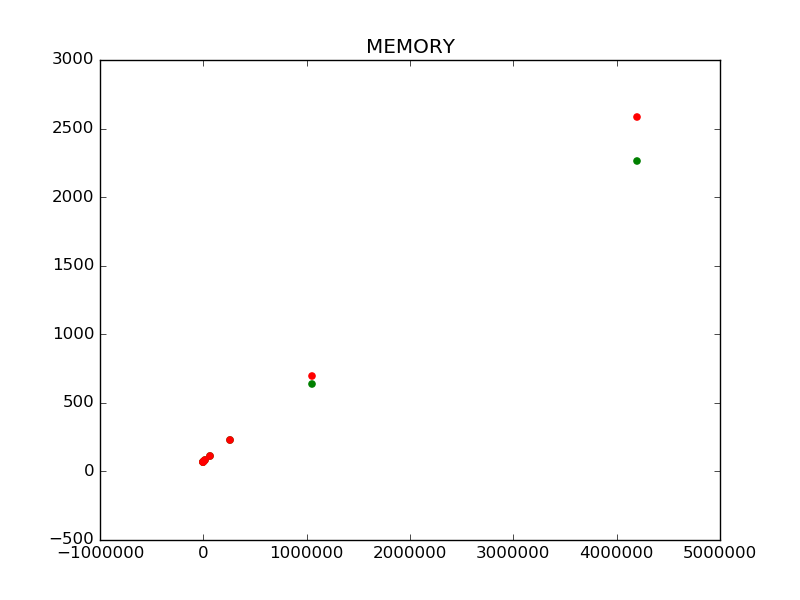
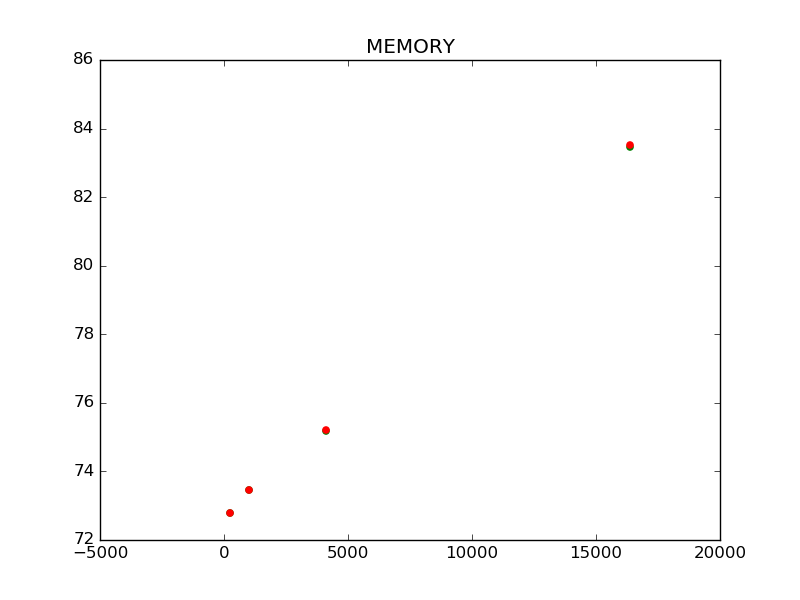
new plots test

diff --git a/kmeans/onlineKmeansComparison.py b/kmeans/onlineKmeansComparison.py
@@ -1,0 +1,99 @@
+import numpy as np
+import matplotlib.pyplot as plt
+from sklearn.datasets.samples_generator import make_blobs
+from sklearn.preprocessing import StandardScaler
+from sklearn.datasets import load_iris
+from memory_profiler import memory_usage
+import timeit
+from sklearn.metrics.pairwise import pairwise_distances
+from sklearn.cluster import MiniBatchKMeans
+
+def getPermutation(totalRange,numberElements):
+    random_seed = 10312003
+    rng = np.random.RandomState(random_seed)
+    permutation = rng.permutation(totalRange)
+    return permutation[:numberElements]
+
+def onlineKmeans(X,k=3,b=30,maxiter=1000):
+    centroids = X[getPermutation(len(X),k)]
+    pointsPerClusters = np.zeros([k,1])
+    minInertia=0
+    notImproveCount=0
+    for i in range(maxiter):
+        M=X[getPermutation(len(X),b)]
+        distances = pairwise_distances(M, centroids, metric='euclidean')
+        nearestCenters = np.argmin(distances, axis=1)
+        inertia = np.sum(np.amin(distances, axis=1))  
+        if (minInertia ==0 or inertia < minInertia):
+            minInertia = inertia
+            notImproveCount=0
+        elif minInertia !=0 and inertia >= minInertia:
+            notImproveCount+=1
+        if (notImproveCount>10): 
+            break
+        for iter, x in enumerate(M):
+            centerIndex = nearestCenters[iter]
+            pointsPerClusters[centerIndex] = pointsPerClusters[centerIndex] + 1
+            eta = 1/pointsPerClusters[centerIndex]
+            centroids[centerIndex] = (1 - eta)*centroids[centerIndex] + eta * x
+    return centroids
+
+def profile_memory_and_time(function, *args, **kwargs):
+    start_time = timeit.default_timer()
+    memory, return_val = memory_usage((function, (args), kwargs), max_usage=True, retval=True)
+    elapsed = timeit.default_timer() - start_time
+    return memory[0], elapsed,return_val
+
+
+iris = load_iris()
+X=iris.data
+random_seed = 10312003
+rng = np.random.RandomState(random_seed)
+permutation = rng.permutation(len(X))
+X = X[permutation]
+ourMemory,ourTime,ourCentroids= profile_memory_and_time(onlineKmeans, X, k=3, b=33, maxiter=1000)
+
+minibatch=MiniBatchKMeans(n_clusters=3,max_iter=100,batch_size=33)
+memory, time, rval = profile_memory_and_time(minibatch.fit,X)
+
+inputSizesToGenerate = [[2**8, 32],[2**10, 32],[2**12, 32],[2**14, 32],
+                        [2**16, 32],[2**18, 32],[2**20, 32],[2**22, 32]]
+                        #[2**24, 32],[2**26, 32],[2**28, 32],[2**30, 32],[2**32, 32]];
+
+scaler = StandardScaler()
+plt.ion()
+f1 = plt.figure()
+ax1 = f1.add_subplot(111)
+ourTimes=[]
+times=[]
+ourMemories=[]
+memoris=[]
+numSamples=[]
+
+for num_samples, num_dimension in inputSizesToGenerate:
+    print "Running for {0} samples of dimension {1}".format(num_samples, num_dimension)
+    X,y = make_blobs(n_samples=num_samples, n_features=num_dimension, centers=6)
+    scaler.fit(X)
+    X_scaled = scaler.transform(X)
+    
+    ourMemory,ourTime,ourCentroids= profile_memory_and_time(onlineKmeans, X, k=3, b=33, maxiter=1000)
+    ourTimes.append(ourTime)
+    ourMemories.append(ourMemory)
+    memory, time, rval = profile_memory_and_time(minibatch.fit,X)
+    times.append(time)
+    memoris.append(memory)
+    
+    numSamples.append(num_samples)
+plt.scatter(numSamples, ourMemories,color="green",label="online Keameans")
+plt.scatter(numSamples, memoris,color="red",label="sklearn Kmeans")
+plt.title("MEMORY")
+plt.legend(bbox_to_anchor=(1.05, 1), loc=2, borderaxespad=0.)
+plt.show()
+plt.savefig('memory.png')
+plt.clf()
+plt.scatter(numSamples, ourTimes,color="green",label="online Keameans")
+plt.scatter(numSamples, times,color="red",label="sklearn Kmeans")
+plt.title("TIME")
+plt.show()
+plt.savefig('time.png')
+    
